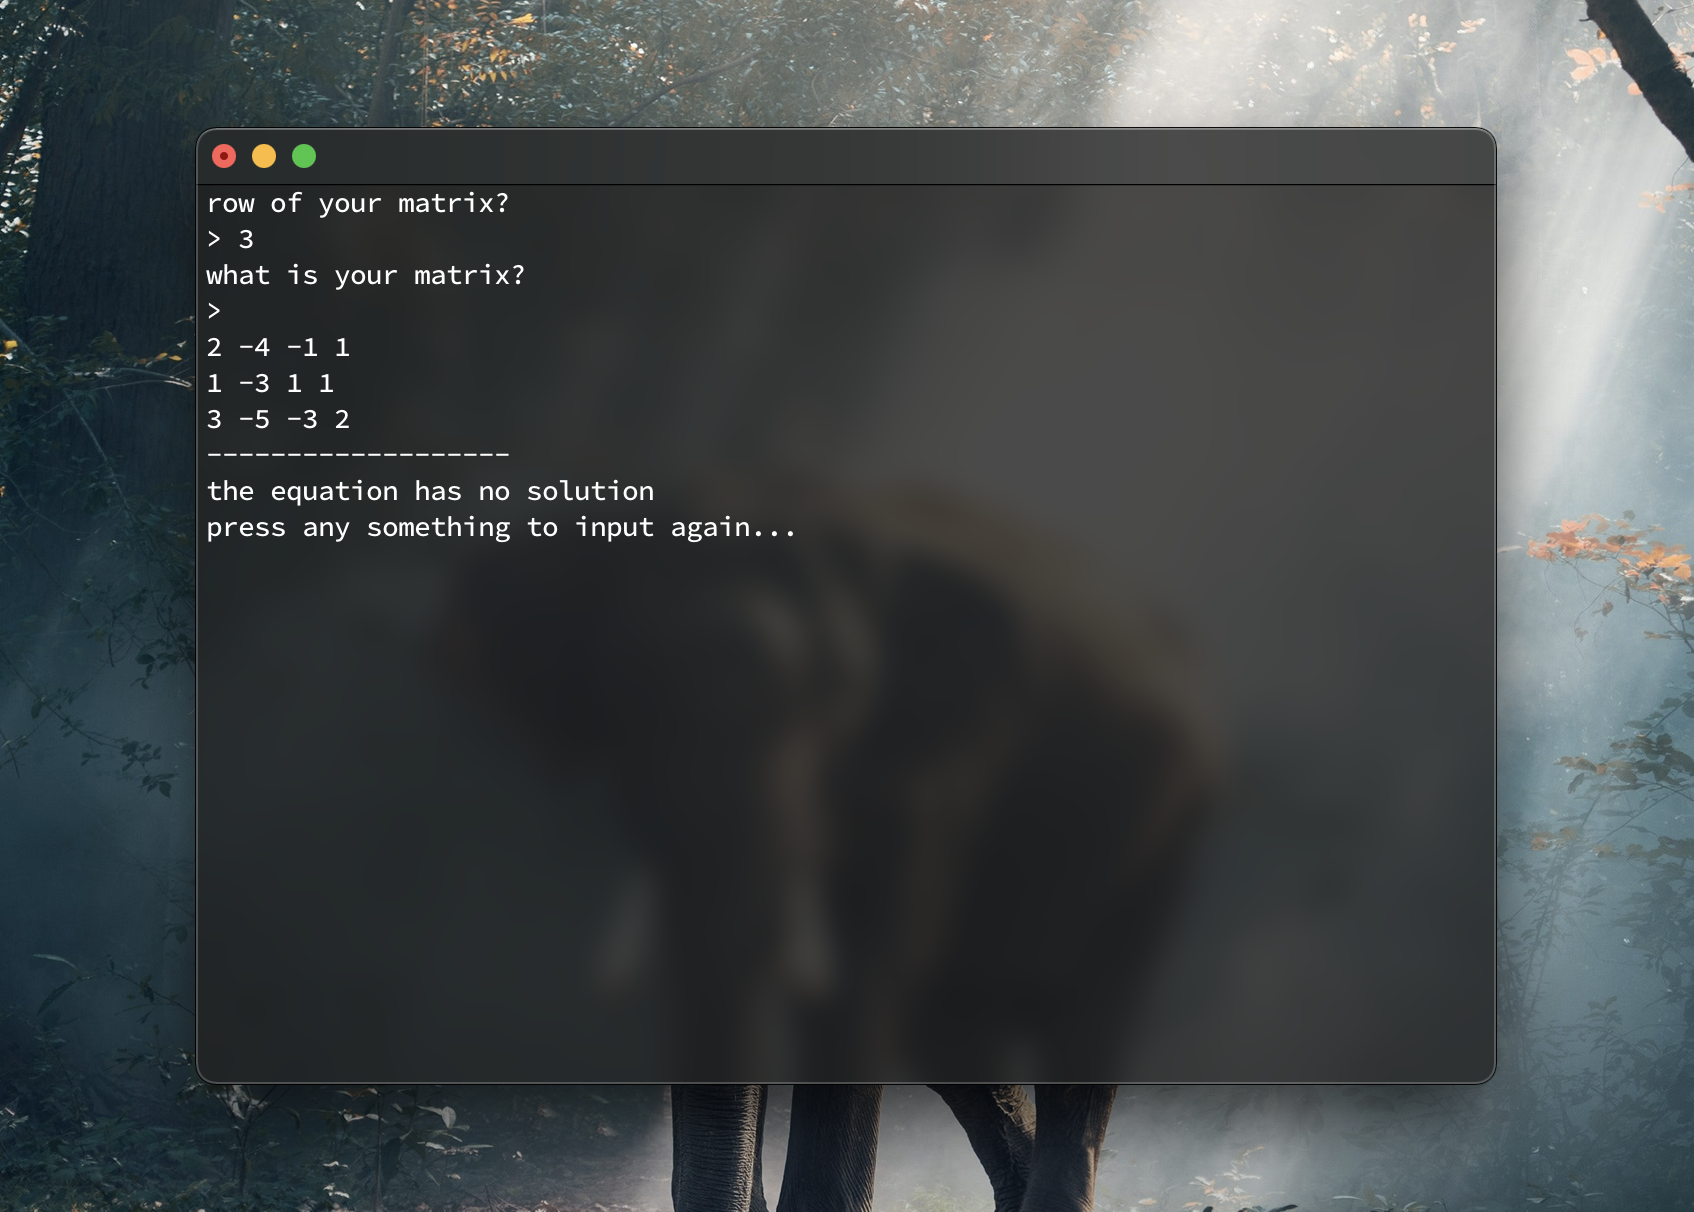
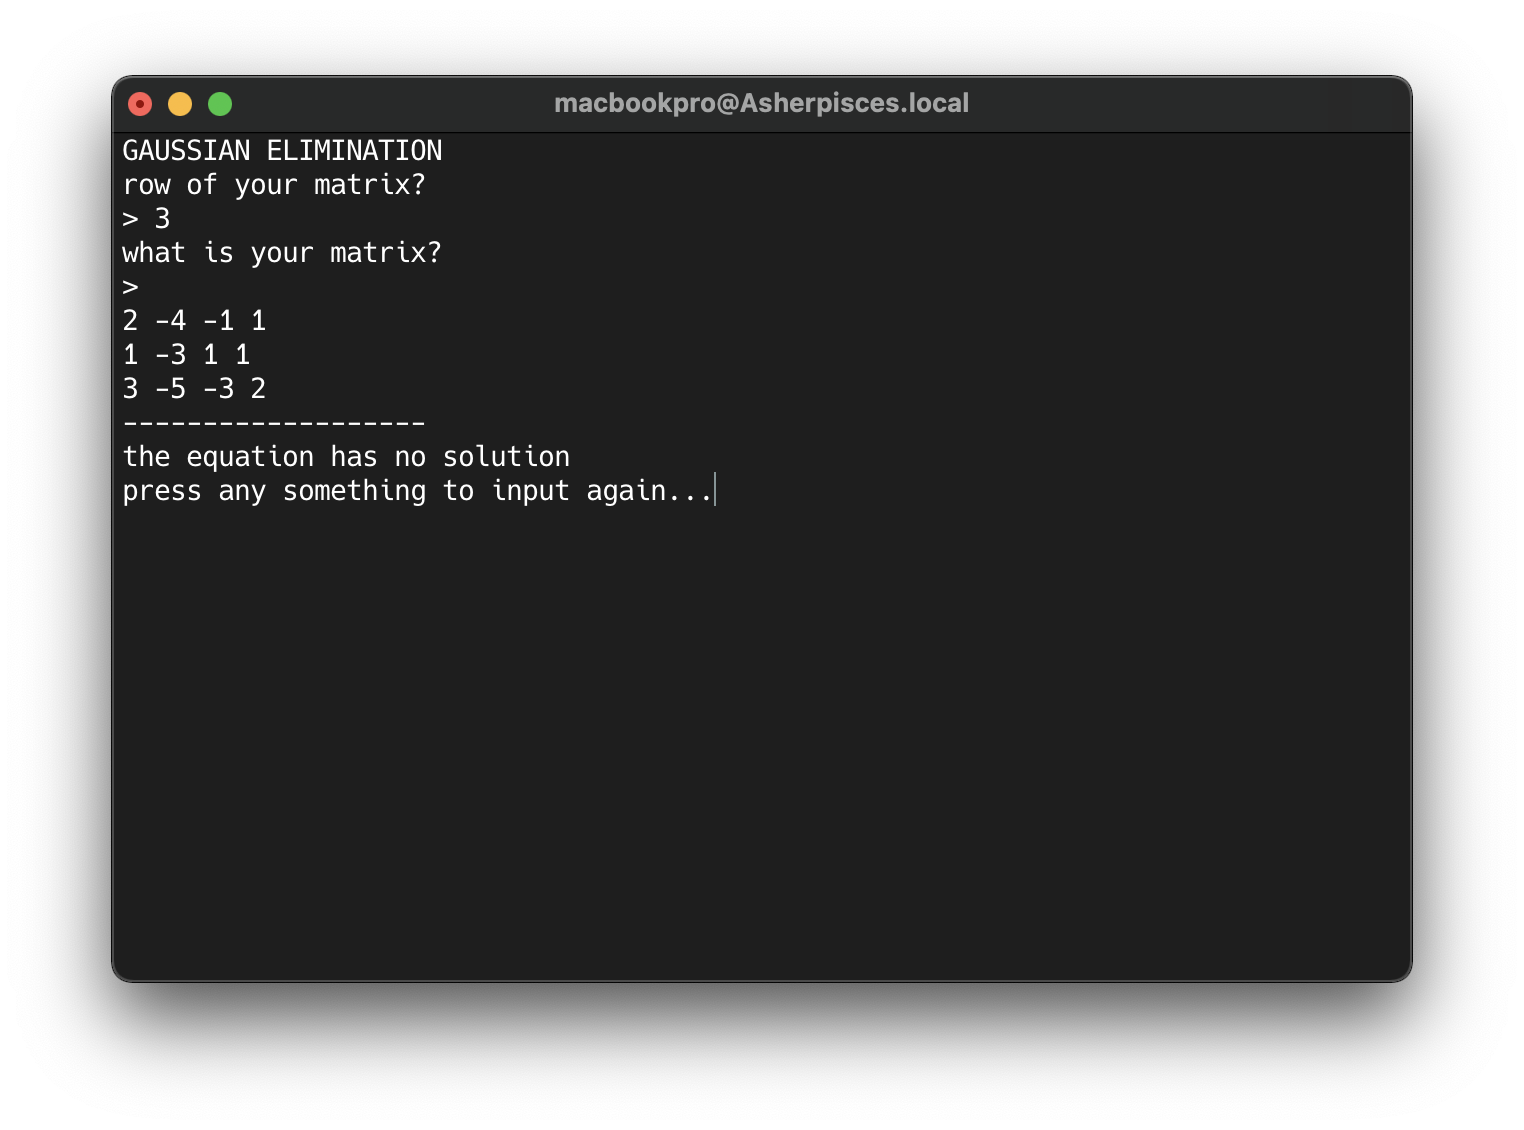
add example

diff --git a/main.py b/main.py
@@ -2,6 +2,7 @@ import math
 import os
 from fractions import Fraction
 
+
 def Gauss_elimination(matrix):
     """
         Returns a Echelon matrix
@@ -147,6 +148,7 @@ def solve(matrix):
 
 if __name__ == '__main__':
     while True:
+        print("GAUSSIAN ELIMINATION")
         print("row of your matrix? ")
         try:
             row = int(input("> "))
